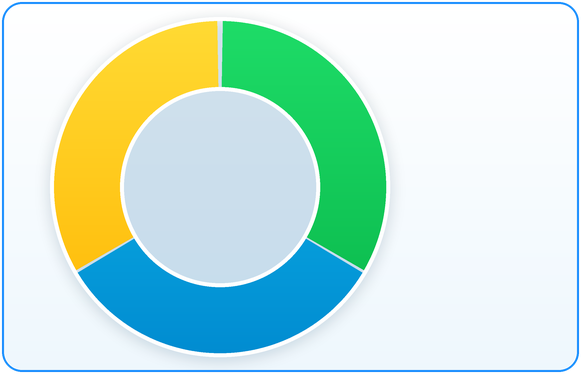
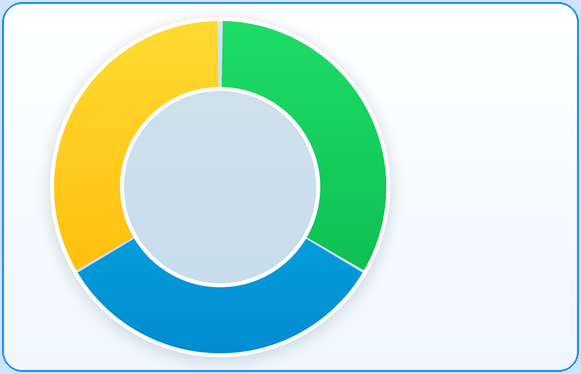
统一 Window8 面板边缘颜色

Changed region(s): [[0.0, 0.0, 1.0, 1.0]]

diff --git a/tools/fix_window8_corner_color.py b/tools/fix_window8_corner_color.py
@@ -1,0 +1,19 @@
+#!/usr/bin/env python3
+"""Match Window8's outside rounded corners to Window1's background."""
+
+from pathlib import Path
+
+from PIL import Image, ImageDraw
+
+
+ROOT = Path(__file__).resolve().parents[1]
+path = ROOT / "resources" / "window8_panel.png"
+source = Image.open(path).convert("RGB")
+background = Image.new("RGB", source.size, (207, 227, 250))
+mask = Image.new("L", source.size, 0)
+ImageDraw.Draw(mask).rounded_rectangle(
+    (2, 2, source.width - 3, source.height - 3), radius=20, fill=255
+)
+background.paste(source, (0, 0), mask)
+background.save(path, format="PNG", optimize=True)
+print("matched Window8 outside corners to Window1 background")
